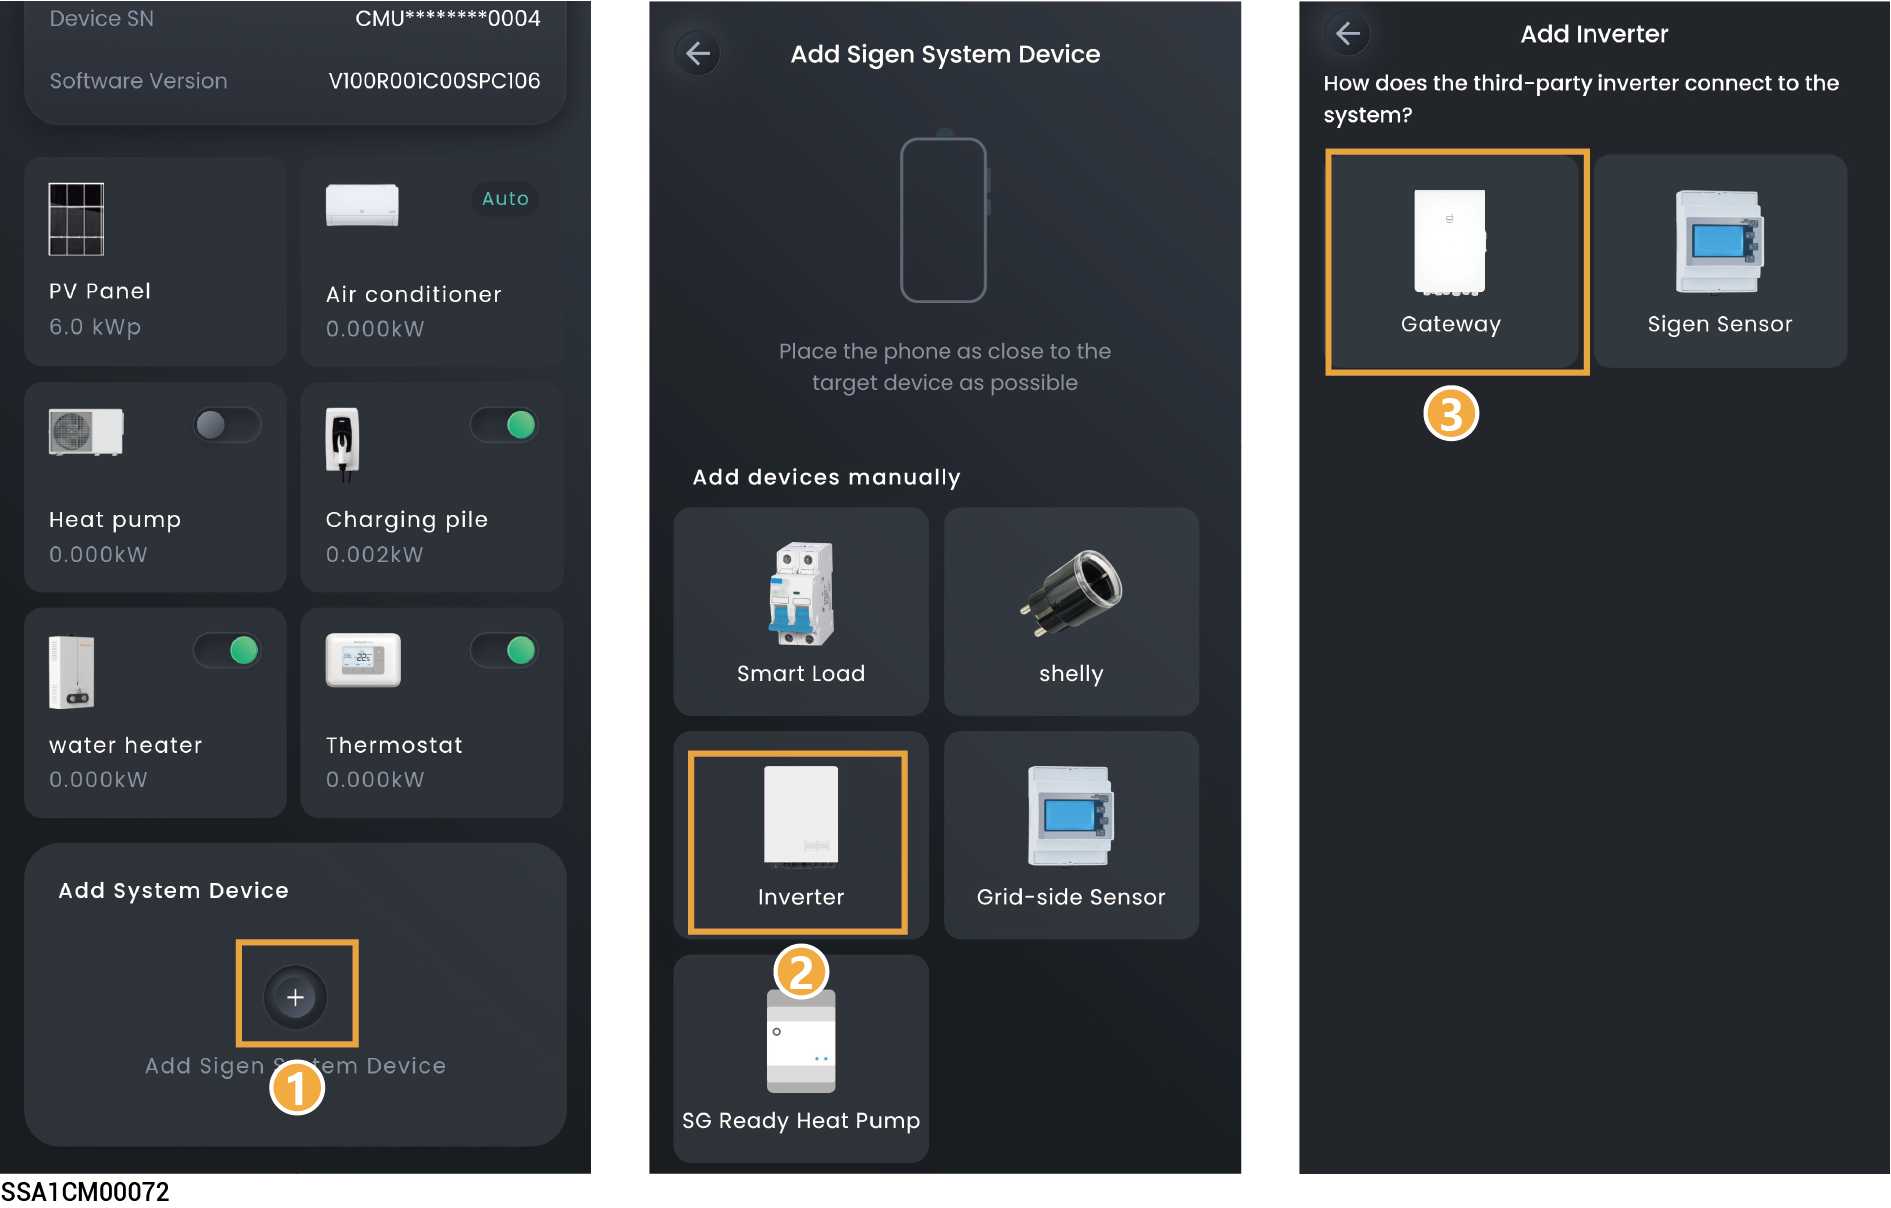
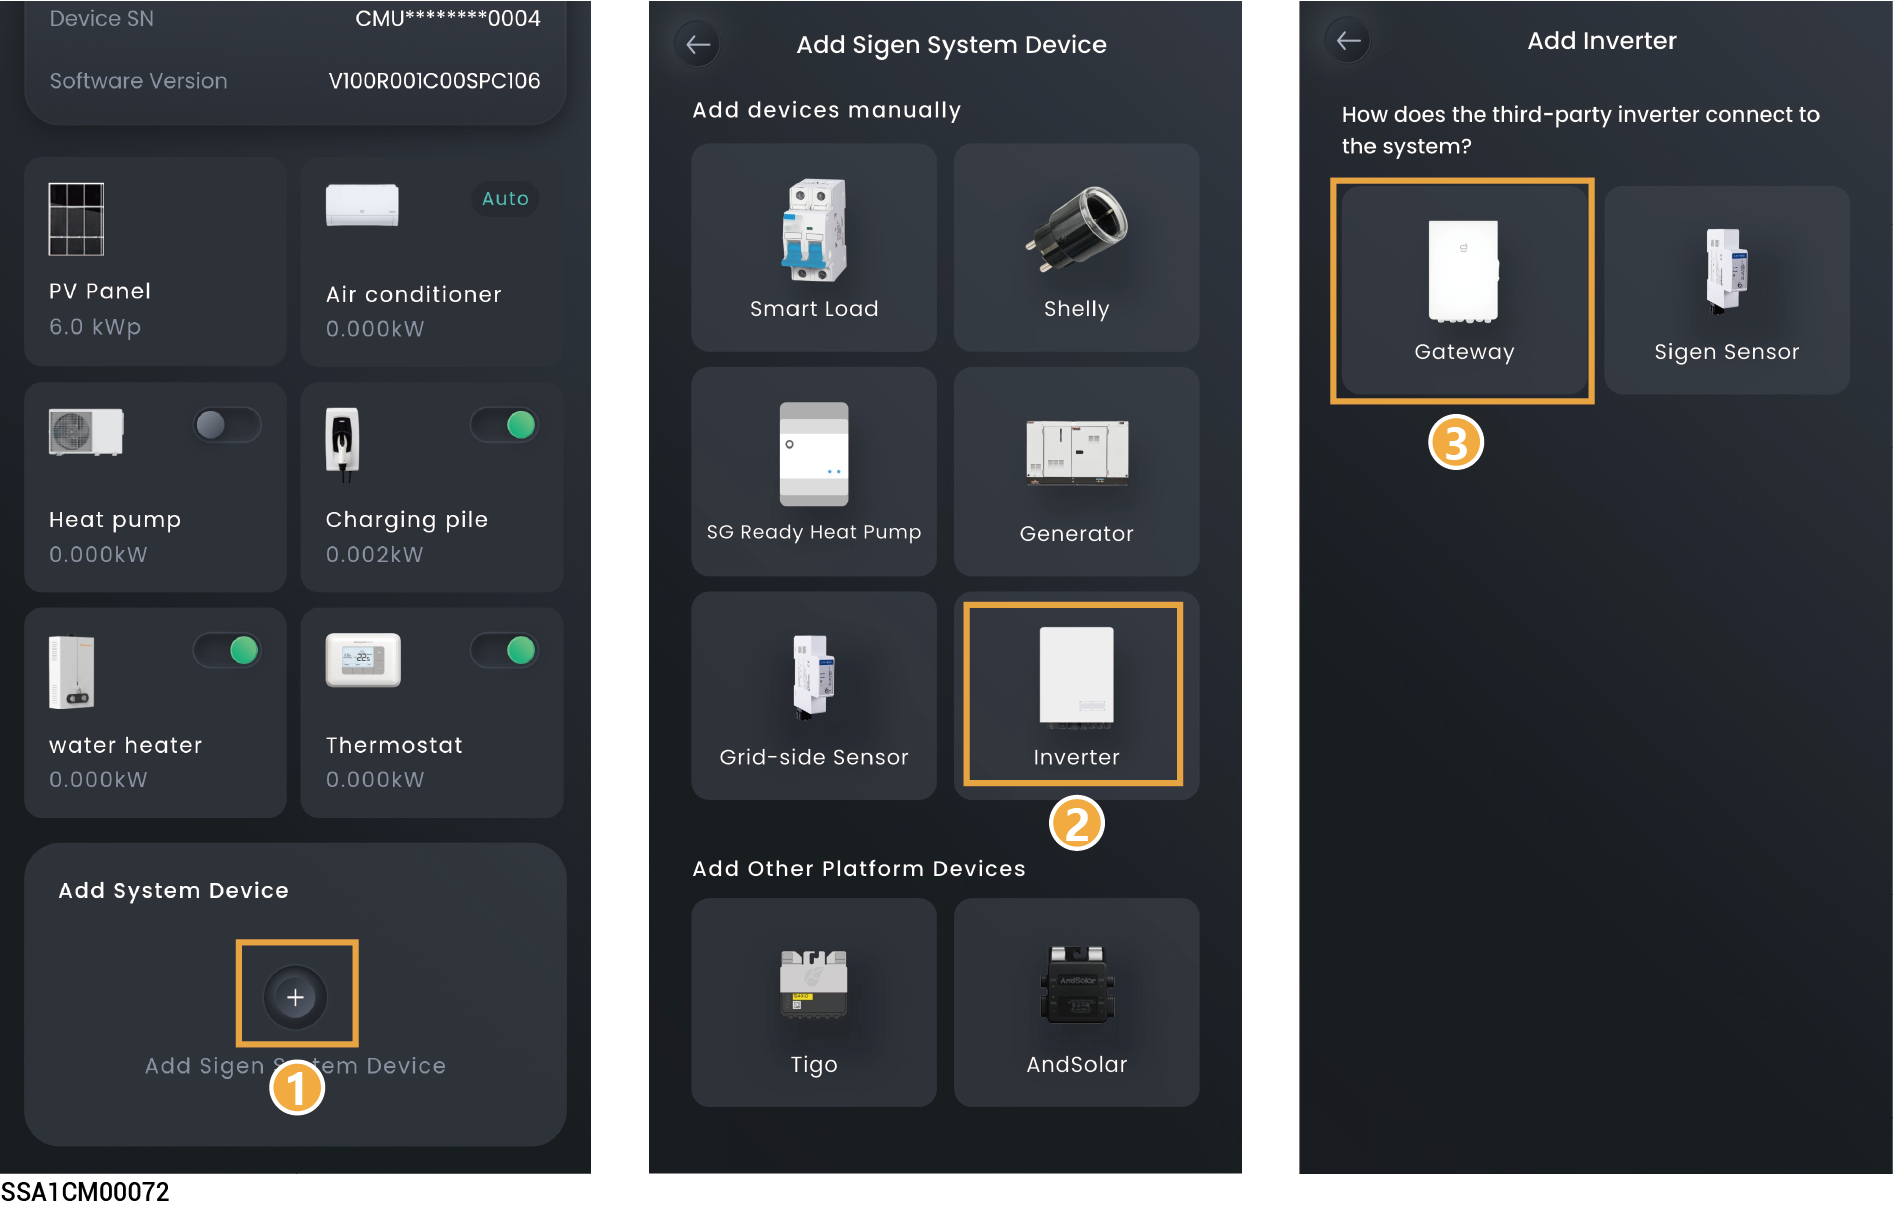
GITBOOK-138: No subject

diff --git a/adding-device/smart-load.md b/adding-device/smart-load.md
@@ -9,7 +9,7 @@
 * <mark style="color:blue;">After adding the Smart Load to the App, you can switch the Smart Load on and off through the App. Alternatively, the system can remotely control the equipment on and off based on the actual running conditions and the SOC threshold you set.</mark>
 * <mark style="color:blue;">If you cannot locate the icon of the connected device, for example, an immersion heater, select "Other" and connect it. You can check the connected smart load on the "Device" screen.</mark>
 
-<figure><img src="../.gitbook/assets/SSA1CM00072-智能负载.png" alt=""><figcaption></figcaption></figure>
+<figure><img src="../.gitbook/assets/SSA1CM00072-Gateway添加智能负载.png" alt="" width="563"><figcaption></figcaption></figure>
 
 ## Method 2: Connecting using Shelly
 
@@ -19,7 +19,7 @@
 * <mark style="color:blue;">Shelly needs to connect to the same WLAN network as SigenStor.</mark>
 * <mark style="color:blue;">Shelly consists of smart plugs, smart relays, and other devices designed for power/energy monitoring and remote control of electrical loads.</mark>
 
-<figure><img src="../.gitbook/assets/SSA1CM00072-shelly.png" alt=""><figcaption></figcaption></figure>
+<figure><img src="../.gitbook/assets/SSA1CM00072-shelly添加智能负载.png" alt="" width="563"><figcaption></figcaption></figure>
 
 {% include "../.gitbook/includes/tips.md" %}
 
@@ -34,14 +34,10 @@ Table 1
 
 On the device interface, click the Smart load you want to configure to set the Smart load control mode.
 
-<figure><img src="../.gitbook/assets/SSA1CM00072-控制模式.png" alt="" width="563"><figcaption></figcaption></figure>
-
 <table><thead><tr><th width="75.3409423828125" align="center">No.</th><th width="156.93182373046875">Parameter name</th><th>Description</th></tr></thead><tbody><tr><td align="center">1</td><td>Manual Control</td><td><ul><li>When it is displayed as In Use, you can turn on and off the Smart Load through "<img src="../.gitbook/assets/image (2) (1).png" alt="" data-size="line">" on the App.</li><li>When displayed as Disable, You can click "Enable Manual" to switch to manual mode.</li></ul></td></tr><tr><td align="center">2</td><td>Auto (Time-based）</td><td><ul><li>When displayed as In Use, it indicates automatic control mode. You can modify or add a schedule.</li><li>When displayed as Disable, you can click "Set a Schedule" → "Yes, save and use" to switch to automatic mode.</li></ul></td></tr><tr><td align="center">3</td><td>Schedule</td><td><p>Energy Source Control: Set the Energy Source Type. The following three modes can be set:</p><p><strong>Depends on System: In this mode, the Smart load activates and deactivates according to the preset schedule.</strong></p><ul><li>Battery Boost: When set to <img src="../.gitbook/assets/3 (8).png" alt="" data-size="line">, home batteries charge Smart Load.</li></ul><p><strong>Surplus PV Only: In this mode, the Smart load activates/deactivates based on configured power thresholds. Solar Producing Source priority can be set.</strong></p><ul><li>Starting Power: Set the starting power of the Smart load.</li><li>Rated Power: Set the rated power of the Smart Home Device, which can be checked on the Smart load's label.</li><li>Battery Boost: When set to<img src="../.gitbook/assets/3 (8).png" alt="" data-size="line"> , home batteries charge Smart Home Device.</li></ul><p><strong>Battery Level Control: In this mode, the load is controlled based on battery SOC thresholds.</strong></p><ul><li>Device Activation Threshold: The Smart load will activate when the actual SOC is greater than the set parameter.</li><li>Device Deactivation Threshold: The Smart load will deactivate when the actual SOC is less than the set parameter.</li></ul></td></tr><tr><td align="center">4</td><td>Ready by</td><td><ul><li>Activation For: Total running time. Before the time set in Ready By, if the running time on that day is less than the set value, the load will be turned on.</li><li>Be Ready By: Set the running time.It is used in conjunction with the total running time.</li></ul></td></tr><tr><td align="center">5</td><td>Resume Schedule</td><td>If a schedule has been added, you can click to delete the schedule parameters.</td></tr></tbody></table>
 
 ## Smart Load Settings
 
 On the device interface, click the Smart load you want to configure → click " <img src="../.gitbook/assets/image (19).png" alt="" data-size="line">" in the upper right corner to set the smart load parameters.
 
-<figure><img src="../.gitbook/assets/SSA1CM00072-智能负载设置 (1).png" alt="" width="563"><figcaption></figcaption></figure>
-
-<table><thead><tr><th width="71.2728271484375" align="center">No.</th><th width="157.2728271484375">Parameter name</th><th>Description</th></tr></thead><tbody><tr><td align="center">1</td><td>General Settings</td><td><ul><li>Device Type: Set the Smart load type.</li><li>Device Name: Set the Smart load name.</li><li>Room: Set the room where the Smart load is located.</li></ul></td></tr><tr><td align="center">2</td><td>Operation Settings</td><td><p><strong>PV Excess Setting</strong></p><ul><li>Starting Power: Set the starting power of the Smart load.</li><li>Rated Power: Set the rated power of the Smart load, which can be checked on the Smart Home Device's label.</li></ul><p><strong>Minimum Running Time: Set the minimum running time for the Smart load.</strong><br><strong>Backup Management (When configuring the Gateway in the network setup, this parameter is displayed.)</strong></p><ul><li>When Essential Load is set to <img src="../.gitbook/assets/image (33) (1).png" alt="">, the SOC for load startup and shutdown can be configured.</li></ul><ul><li>Cut-in: The Smart load will activate when the actual SOC is greater than the set parameter.</li><li>Cut-off: The Smart load will deactivate when the actual SOC is less than the set parameter.</li></ul></td></tr><tr><td align="center">3</td><td>Remove Smart Device</td><td>Click to remove the smart load.</td></tr></tbody></table>
+<table><thead><tr><th width="71.2728271484375" align="center">No.</th><th width="157.2728271484375">Parameter name</th><th>Description</th></tr></thead><tbody><tr><td align="center">1</td><td>General Settings</td><td>Set the smart load type, name, and assigned room.</td></tr><tr><td align="center">2</td><td>Operation Settings</td><td><p><strong>PV Excess Setting</strong></p><ul><li>Starting Power: Set the starting power of the Smart load.</li><li>Rated Power: Set the rated power of the Smart load, which can be checked on the Smart Home Device's label.</li></ul><p><strong>Minimum Running Time: Set the minimum running time for the Smart load.</strong><br><strong>Backup Management (When configuring the Gateway in the network setup, this parameter is displayed.)</strong></p><ul><li>When Essential Load is set to <img src="../.gitbook/assets/image (33) (1).png" alt="">, the SOC for load startup and shutdown can be configured.</li></ul><ul><li>Cut-in: The Smart load will activate when the actual SOC is greater than the set parameter.</li><li>Cut-off: The Smart load will deactivate when the actual SOC is less than the set parameter.</li></ul></td></tr><tr><td align="center">3</td><td>Remove smart load</td><td>Click to remove the smart load.</td></tr></tbody></table>

diff --git a/adding-device/sg-heat-pump.md b/adding-device/sg-heat-pump.md
@@ -7,17 +7,16 @@
 * <mark style="color:blue;">The heat pump has been properly connected to the DO port of the company's inverter, and the software version of the inverter enables users to connect the heat pump.</mark>
 * <mark style="color:blue;">"DO Custom Function Enable" in the "System Settings" menu has been set to</mark> <img src="../.gitbook/assets/3 (8).png" alt="" data-size="line"><mark style="color:blue;">.</mark>
 
+<figure><img src="../.gitbook/assets/SSA1CM00072-添加SG热泵.png" alt="" width="563"><figcaption></figcaption></figure>
+
 ## Control Mode
 
 On the device interface, click the SG heat pump to set the SG heat pump control mode.
-
-<figure><img src="../.gitbook/assets/SSA1CM00072-SG热泵控制模式.png" alt=""><figcaption></figcaption></figure>
 
 <table><thead><tr><th width="49.54547119140625" align="center">No.</th><th width="182.1817626953125">Parameter name</th><th>Description</th></tr></thead><tbody><tr><td align="center">1</td><td>Manual Control</td><td><ul><li>When it is displayed as In Use, you can turn on and off the SG heat pump through " <img src="../.gitbook/assets/image (21).png" alt="">" on the App.</li><li>When displayed as Disable, You can click "Enable Manual" to switch to manual mode.</li></ul></td></tr><tr><td align="center">2</td><td>Auto (Time-based)</td><td><ul><li>When displayed as In Use, it indicates automatic control mode. You can modify or create a schedule.</li><li>When displayed as Disable, you can click "Set a Schedule" → "Yes, save and use" to switch to automatic mode.</li></ul></td></tr><tr><td align="center">3</td><td>Schedule</td><td><p>Energy Source Control: Set the Energy Source Type. The following three modes can be set:</p><p><strong>Depends on System</strong></p><ul><li>Battery Boost: When set to <img src="../.gitbook/assets/image (7).png" alt="">, home batteries charge SG Ready heat pump.</li></ul><p><strong>Surplus PV Only</strong></p><ul><li>Starting Power: Set the starting power of the SG Ready heat pump.</li><li>Rated Power: Set the rated power of the connected device, which can be checked on the SG Ready heat pump's label.</li><li>Battery Boost: When set to <img src="../.gitbook/assets/image (8).png" alt="">, the home battery charges the SG Ready heat pump.</li></ul><p><strong>Battery Level Control</strong></p><ul><li>Device Activation Threshold: The SG Ready heat pump will activate when the actual SOC is greater than the set parameter.</li><li>Device Deactivation Threshold: The SG Ready heat pump will deactivate when the actual SOC is less than the set parameter.</li></ul></td></tr><tr><td align="center">4</td><td>Ready by</td><td><ul><li>Activation For: Total running time. Before the time set in Be Ready By, if the running time on that day is less than the set value, the SG heat pump will be turned on.</li></ul><ul><li>Be Ready By: Set the running time. It is used in conjunction with the total running time.</li></ul></td></tr><tr><td align="center">5</td><td>Resume Schedule</td><td>If a schedule has been added, you can click to delete the schedule parameters.</td></tr></tbody></table>
 
 ## SG Ready Heat Pump Settings
 
-<figure><img src="../.gitbook/assets/SSA1CM00072-SG热泵设置.png" alt=""><figcaption></figcaption></figure>
+On the device interface, click SG Ready Heat Pump → Click "<img src="../.gitbook/assets/image (6).png" alt="" data-size="line"> " in the upper right corner to set the SG heat pump parameters.
 
-<table><thead><tr><th width="72" align="center">No.</th><th width="152">Parameter name</th><th>Description</th></tr></thead><tbody><tr><td align="center">1</td><td>General Settings</td><td><p>Device Name: Set the device name.</p><p>Room: Set the room where the device is located.</p></td></tr><tr><td align="center">3</td><td>Operation Settings</td><td><p><strong>PV Excess Setting</strong></p><ul><li>Starting Power: Set the starting power of the SG heat pump.</li></ul><ul><li>Rated Power: Set the rated power of the connected device, which can be checked on the SG heat pump's label.</li></ul><p><strong>Minimum Running Time: Set the minimum running time for the device.</strong><br><strong>Backup Management (When configuring the Gateway in the network setup, this parameter is displayed.)</strong></p><ul><li>When Essential Load is set to<img src="../.gitbook/assets/image (8).png" alt=""> , the SOC for SG heat pump startup and shutdown can be configured.</li></ul><ul><li>Cut-in: The SG heat pump will activate when the actual SOC is greater than the set parameter.</li><li>Cut-off: The SG heat pump will deactivate when the actual SOC is less than the set parameter.</li></ul></td></tr><tr><td align="center">3</td><td>Remove Smart Device</td><td>Click to remove the SG heat pump.</td></tr></tbody></table>
-
+<table><thead><tr><th width="72" align="center">No.</th><th width="152">Parameter name</th><th>Description</th></tr></thead><tbody><tr><td align="center">1</td><td>General Settings</td><td>Set the SG Ready Heat Pump type, name, and assigned room.</td></tr><tr><td align="center">3</td><td>Operation Settings</td><td><p><strong>PV Excess Setting</strong></p><ul><li>Starting Power: Set the starting power of the SG heat pump.</li></ul><ul><li>Rated Power: Set the rated power of the connected device, which can be checked on the SG heat pump's label.</li></ul><p><strong>Minimum Running Time: Set the minimum running time for the device.</strong><br><strong>Backup Management (When configuring the Gateway in the network setup, this parameter is displayed.)</strong></p><ul><li>When Essential Load is set to<img src="../.gitbook/assets/image (8).png" alt=""> , the SOC for  SG Ready Heat Pump startup and shutdown can be configured.</li></ul><ul><li>Cut-in: The  SG Ready Heat Pump will activate when the actual SOC is greater than the set parameter.</li><li>Cut-off: The SG heat pump will deactivate when the actual SOC is less than the set parameter.</li></ul></td></tr><tr><td align="center">3</td><td>Remove  SG Ready Heat Pump</td><td>Click to remove the  SG Ready Heat Pump.</td></tr></tbody></table>

diff --git a/station-parameter-setup/energy-management-settings/power-station-energy-configuration/backup-setting.md b/station-parameter-setup/energy-management-settings/power-station-energy-configuration/backup-setting.md
@@ -21,20 +21,13 @@ For example, the backup power SOC is set in Self-Consumption Mode.
 
 <mark style="color:blue;">After Gateway is installed in the system, the system records on-grid/off-grid events. You can view the time and reason for the on-/off-grid switchover through the following methods.</mark>
 
-<figure><img src="../../../.gitbook/assets/MSA1CM00078-备电历史.png" alt=""><figcaption></figcaption></figure>
-
-## Backup Event Center
-
-<figure><img src="../../../.gitbook/assets/MSA1CM00078-备电事件.png" alt=""><figcaption></figcaption></figure>
-
 ## Storm Watch
 
 {% include "https://app.gitbook.com/s/OGIICehJiMvqdVX7wksn/~/reusable/p4FUqXvLmYuzqficHZJF/" %}
 
-* <mark style="color:$primary;">This function is only available for power stations that have batteries and have enabled the off-grid function.</mark>
-* <mark style="color:$primary;">After enabling this function, the system will charge the batteries in advance after obtaining extreme weather information.</mark>
+* This function is only available for power stations that have batteries and have enabled the off-grid function.
+* After enabling this function, the system will charge the batteries in advance after obtaining extreme weather information.
 
 <figure><img src="../../../.gitbook/assets/MSA1CM00085-风暴预警.png" alt="" width="297"><figcaption></figcaption></figure>
 
 <table><thead><tr><th width="81.88885498046875" align="center" valign="middle">No.</th><th width="178.3233642578125" valign="middle">Parameter name</th><th width="458.888916015625" valign="top">Description</th></tr></thead><tbody><tr><td align="center" valign="middle">1</td><td valign="middle">Storm Watch</td><td valign="top">When set to<img src="../../../.gitbook/assets/image (38).png" alt="">，the Storm Watch function is enabled.</td></tr><tr><td align="center" valign="middle">2</td><td valign="middle">Backup Settings</td><td valign="top">Enable backup before the storm：Set the duration for pre - charging before extreme weather, which can be set from 1 - 24 hours.</td></tr><tr><td align="center" valign="middle">3</td><td valign="middle">Weather Warnings</td><td valign="top">Select the type of extreme weather.</td></tr></tbody></table>
-

diff --git a/adding-device/third-party-inverter.md b/adding-device/third-party-inverter.md
@@ -1,8 +1,6 @@
 # Third-party inverter
 
-<figure><img src="../.gitbook/assets/SSA1CM00072-第三方逆变器.png" alt=""><figcaption></figcaption></figure>
-
-### Method 1: **Connecting using Gateway**
+## Method 1: **Connecting using Gateway**
 
 {% include "../.gitbook/includes/tips.md" %}
 
@@ -10,7 +8,9 @@
 * <mark style="color:blue;">Before connecting to a third-party inverter, ensure that the third-party inverter is connected to the smart load circuit breaker of the Gateway. For connection details, refer to the Installation Guide of the respective product.</mark>
 * <mark style="color:blue;">On the "Device" screen, set related parameters based on the third-party inverter. Then, you can check detailed settings on the "Device" screen.</mark>
 
-### Method 2: **Connecting using an electric meter**
+<figure><img src="../.gitbook/assets/SSA1CM00072-gateway添加三逆.png" alt=""><figcaption></figcaption></figure>
+
+## Method 2: **Connecting using an electric meter**
 
 {% include "../.gitbook/includes/tips.md" %}
 
@@ -18,6 +18,16 @@
 
 * <mark style="color:blue;">The third-party inverter is properly connected to an electric meter which is purchased from our company.</mark>
 * <mark style="color:blue;">The electric meter is properly connected to the COM port of our inverter. For connection ports, please refer to the respective Installation Guide.</mark>
+
+<figure><img src="../.gitbook/assets/SSA1CM00072-电表添加三逆.png" alt=""><figcaption></figcaption></figure>
+
+### Add a single  third-party inverter
+
+<figure><img src="../.gitbook/assets/SSA1CM00072-单逆.png" alt="" width="563"><figcaption></figcaption></figure>
+
+### Add multiple third-party inverters
+
+<figure><img src="../.gitbook/assets/SSA1CM00072-多三逆.png" alt="" width="563"><figcaption></figcaption></figure>
 
 **Diagram of third-party inverter wiring connections**
 

diff --git a/station-parameter-setup/energy-management-settings/energy-saving-mode.md b/station-parameter-setup/energy-management-settings/energy-saving-mode.md
@@ -2,7 +2,6 @@
 
 {% include "../../.gitbook/includes/tips.md" %}
 
-* <mark style="color:blue;">Performance: In this mode, devices operate normally and supply power to loads at high speed.</mark>
-* <mark style="color:blue;">Energy Saving: In this mode, devices are in standby mode with low power consumption. After being connected to loads, devices take some time to respond to supply power to loads.</mark>
+<mark style="color:blue;">After configuration, the power consumption of the device can be reduced. You can select the Performance Mode or Deep Energy-Saving Mode according to actual needs.</mark>
 
 <figure><img src="../../.gitbook/assets/MSA1CM00073-节能模式.png" alt="" width="563"><figcaption></figcaption></figure>

diff --git a/SUMMARY.md b/SUMMARY.md
@@ -36,8 +36,8 @@
 * [Adding device](adding-device/README.md)
   * [Smart load](adding-device/smart-load.md)
   * [Grid-side Sensor](adding-device/grid-side-sensor.md)
-  * [Third-party inverter](adding-device/third-party-inverter.md)
   * [Generator](adding-device/diesel-generator.md)
+  * [Third-party inverter](adding-device/third-party-inverter.md)
   * [SG Ready heat pump](adding-device/sg-heat-pump.md)
   * [AndSolar](adding-device/andsolar.md)
 * [Device parameter setup](device-parameter-setup/README.md)
